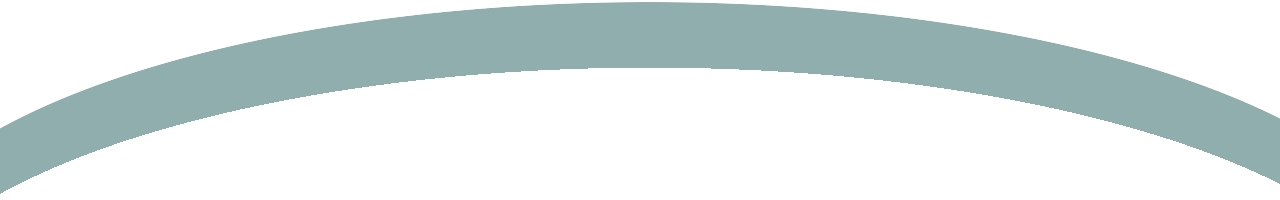
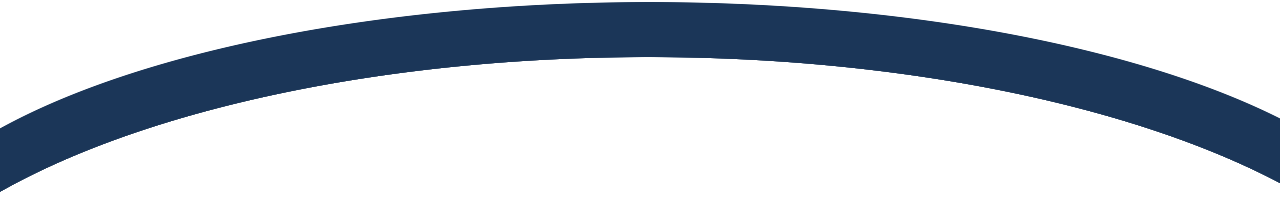
Path cleaned up, onCurrentIndexChanged instead of movmentEnded fixes the updating of the cosmic unit. Better images.

diff --git a/qml/Swiper.qml b/qml/Swiper.qml
@@ -1,39 +1,113 @@
 import QtQuick 2.0
 
 Item {
+
+    property int index: hours.currentIndex
+
     width: mainWindow.width
     height: mainWindow.height*(1/4)
 
     Image { id: bg
-        source: "../images/swipe_bg.png"
+        source: "../images/swipe_bg2.png"
+        anchors.horizontalCenter: parent.horizontalCenter
     }
 
     ListModel { id: hoursModel }
 
-    PathView { id: hours
+    Component { id: highlighter
+        Rectangle { width: 80; height: 80; color: "lightsteelblue"; opacity: .5}
+    }
 
-        anchors.fill: parent
-        model: hoursModel
-        delegate: Item {
-            width: 50; height: 30
+    Component { id: pathDelegate;
+        Item {
+            width: 90; height: 45
             Text {
+                anchors.horizontalCenter: parent.horizontalCenter
                 text: hour
-                font.pixelSize: 30
+                font.pixelSize: 25
                 color: "white"
+                rotation: PathView.itemRotationasdf
             }
-        }
-        path: Path {
-            startX: mainWindow.width/2; startY: 20
-            PathQuad { x: mainWindow.width/2; y: mainWindow.height*(1/4)+80; controlX: 1700; controlY: 150}
         }
     }
 
-    function populate_hours(num_hours){
+    PathView { id: hours
+
+        anchors.fill: parent
+        highlight: highlighter
+        preferredHighlightBegin: 0.5
+        preferredHighlightEnd: 0.5
+        model: hoursModel
+        delegate: pathDelegate
+
+        path: Path { id: path
+            startX: -700; startY: 500
+            PathAttribute { name: "itemRotation"; value: 30 }
+            PathQuad { x: mainWindow.width+760; y: 500; controlX: mainWindow.width/2; controlY: -460}
+            PathAttribute { name: "itemRotation"; value: 30 }
+        }
+
+        onCurrentIndexChanged: resetHour(currentIndex)
+    }
+
+    Text { id: today
+        text: "Today"
+        font.pixelSize: 25
+        color: "white"
+        anchors { horizontalCenter: parent.horizontalCenter; horizontalCenterOffset: -240 }
+        anchors { verticalCenter: parent.verticalCenter }
+        MouseArea {
+            anchors.fill: parent
+            onClicked: hours.currentIndex = 0;
+        }
+    }
+    Text { id: tomorrow
+        text: "Tomorrow"
+        font.pixelSize: 25
+        color: "white"
+        anchors { left: today.right; leftMargin: 160 }
+        anchors { verticalCenter: parent.verticalCenter; verticalCenterOffset: -20 }
+        MouseArea {
+            anchors.fill: parent
+            onClicked: { hours.currentIndex = hours.currentIndex + 24
+                console.log("Clicked");
+            }
+        }
+    }
+    Text { id: second_day
+        text: "2daysaway"
+        font.pixelSize: 25
+        color: "white"
+        anchors { left: tomorrow.right; leftMargin: 160 }
+        anchors { verticalCenter: parent.verticalCenter }
+        MouseArea {
+            anchors.fill: parent
+            onClicked: hours.currentIndex + 30
+        }
+    }
+
+    function populate_hours(num_hours, cur_hour){
 
         for( var i=0; i<num_hours; i++ ){
-            hoursModel.append({"hour": i})
-            console.log(i)
-
+            hoursModel.append({"hour": to_civil_time(i+cur_hour)})
         }
+    }
+
+    function to_civil_time(offset){
+
+        if(offset <= 12){
+            return offset + ":00\n am";
+        }else if(offset > 12 && offset < 24){
+            offset = offset - 12;
+            return offset + ":00\n pm";
+        }else{
+            offset = offset - 24;
+            console.log(offset)
+            return to_civil_time(offset);
+        }
+    }
+
+    function resetHour(x){
+        main_stats.setVars(x)
     }
 }

diff --git a/WeatherStatin.qml b/WeatherStatin.qml
@@ -3,10 +3,12 @@ import "qml"
 
 Rectangle {
 
-    property int metric: 0   // 0 = farenheit / 1 = celcius
-    property string bg_source: ""
-    property string current_city: ""
-    property int daytime: 0  // 0 = nighttime / 1 = Daytime
+    property int metric: 0               // 0 = farenheit / 1 = celcius
+    property string bg_source: ""        // Source image for background
+    property string current_city: ""     // contains the name of the current city
+    property int daytime: 0              // 0 = nighttime / 1 = Daytime
+    property int cur_time // Hour 1-24
+    property int cosmo_constant          // Used for positioning the sun/moon (Based off the cur_time)
 
     Component.onCompleted: init()
 
@@ -18,18 +20,7 @@ Rectangle {
         source: bg_source
     }
 
-    Rectangle { id: drag_hook // This should be an image!
-        width: parent.width*(1/5); height: mainWindow.height*(1/12)
-        anchors {top: parent.top; horizontalCenter: parent.horizontalCenter }
-        anchors.bottomMargin: drag_hook.height/2
-        color: "red"
 
-        MouseArea { id: dash_mouse_area
-            anchors.fill: parent
-            onClicked: dash.state = (dash.state==="focused")? "" : "focused";
-            enabled: (dash.state==="focused")? false: true;
-        }
-    }
 
     Text { id: city_name
         text: current_city
@@ -39,19 +30,59 @@ Rectangle {
     }
 
     // Gonna need a javascript model
-    MainStats {id: main_stats;
-        anchors.centerIn:parent
-        onCompleted: swiper.populate_hours(main_stats.num_hours)
+    MainStats { id: main_stats;
+        anchors { horizontalCenter: parent.horizontalCenter; verticalCenter: parent.verticalCenter; verticalCenterOffset: -80 }
+        onCompleted: swiper.populate_hours(main_stats.num_hours, cur_time)
+    }
+
+    Image { id: cosmic_object   // either the sun or the moon
+        source: (daytime==0)?"images/moonunit.png":"images/sun.png"
+        y: {var time = (swiper.index%12);
+            var offset = time-7;
+            if(offset==0){return mainWindow.height+500;}
+            if(offset<0){
+                offset = time + 5;
+            }
+            return ((mainWindow.height/11)*offset) - 200
+        }
+        x: mainWindow.width * (3/5)
+        transitions: Transition {
+            PropertyAnimation { properties: "x,y"; easing.type: Easing.Linear }
+        }
+    }
+
+    Image { id: drag_hook // This should be an image!
+        anchors {top: parent.top; horizontalCenter: parent.horizontalCenter }
+        anchors.bottomMargin: drag_hook.height/2
+        source: "images/dragger.png"
+
+        MouseArea { id: dash_mouse_area
+            anchors.fill: parent
+            onClicked: dash.state = (dash.state==="focused")? "" : "focused";
+            enabled: (dash.state==="focused")? false: true;
+        }
     }
 
     Swiper {id: swiper; anchors.bottom: parent.bottom; anchors.left: parent.left; }
 
-    Dashboard {id: dash; state: ""}
-
-    function init(){
-        bg_source = (daytime==1)?"images/nightsky.png":"images/blue-sky.jpg"
-        current_city = "Chicago"
-        main_stats.load("Chicago",0)
+    Text{ text: swiper.index % 12
+        anchors.top: mainWindow.top
+        font.pixelSize: 50;
+        color: "gray"
     }
 
+    Dashboard {id: dash; state: ""}
+
+
+    function init(){
+        main_stats.load("Chicago",0)  // Downloads json and sets environment variables
+        current_city = "Chicago"
+        reDraw()
+        // toggle for populated hours when not connected to api
+        // swiper.populate_hours(36, 1)
+    }
+
+    function reDraw(){
+        bg_source = (daytime==0)?"images/nightsky.png":"images/blue-sky.jpg"
+    }
 }

diff --git a/qml/MainStats.qml b/qml/MainStats.qml
@@ -10,13 +10,18 @@ Item {
     property string temp_f
     property string temp_c
     property string day
-    property string hour
+    property string hour            // Military
     property string wind_mph
     property string pressure_in
-    property string colour
+    property string colour          // Either black or white
+    property string civil           // Pretty time format
+    property string condition
 
     // Other properties
     property int num_hours
+
+    // JSON Object (needed globally to not make repeated calls to the API)
+    property var jsonObject
 
 
     Rectangle { id: shade
@@ -41,12 +46,18 @@ Item {
     }
     Text { id: weekday
         text: day
-        anchors {top: outdoor_temp.bottom; left: parent.left; leftMargin:20; }
-        font.pixelSize: 40
+        anchors {top: outdoor_temp.bottom; horizontalCenter: parent.horizontalCenter }
+        font.pixelSize: 30
+        color: colour
+    }
+    Text { id: condion_text
+        text: condition
+        anchors { top: weekday.bottom; horizontalCenter: parent.horizontalCenter; }
+        font.pixelSize: 30
         color: colour
     }
     Text { id: selected_hour
-        text: hour
+        text: civil
         anchors {top: weekday.top; left: weekday.right; leftMargin: 10; }
         font.pixelSize: 40
         color: colour
@@ -63,27 +74,35 @@ Item {
         doc.onreadystatechange = function(){
             if ( doc.readyState == XMLHttpRequest.DONE)
             {
-                var jsonObject = JSON.parse(doc.responseText);
-                loaded(jsonObject, index)
+                jsonObject = JSON.parse(doc.responseText);
+                setVars(index)
+                num_hours = jsonObject.hourly_forecast.length;
+                mainWindow.cur_time = jsonObject.hourly_forecast[0].FCTTIME.hour
+                completed();
             }
         }
         doc.send();
         console.log(path)
+
     }
 
-    function loaded(jsonObject, index){
+    // Parses the JSON and sets the variables for use in QML
+    // index: The hour to use for hourly, 0=current hour. Goes up to about 34
+    function setVars(index){
         temp_f = jsonObject.hourly_forecast[index].temp.english
         temp_c = jsonObject.hourly_forecast[index].temp.metric
         day = jsonObject.hourly_forecast[index].FCTTIME.weekday_name_abbrev
-        hour = jsonObject.hourly_forecast[index].FCTTIME.civil
+        hour = jsonObject.hourly_forecast[index].FCTTIME.hour
+        civil = jsonObject.hourly_forecast[index].FCTTIME.civil
+        condition = jsonObject.hourly_forecast[index].condition
 
-        num_hours = jsonObject.hourly_forecast.length
-        setColour(jsonObject.hourly_forecast[index].FCTTIME.hour)
+        setHour(jsonObject.hourly_forecast[index].FCTTIME.hour)
 
-        completed()
     }
 
-    function setColour(hour){
+    // Sets the hour that we are currently using
+    function setHour(hour){
+        console.log("setColor: " + hour + " | <- thats the hour in military time")
         if(hour < 7 || hour > 19) { // Night
             colour = "white"
             mainWindow.daytime = 0
@@ -91,5 +110,6 @@ Item {
             colour = "black"
             mainWindow.daytime = 1
         }
+        mainWindow.reDraw()
     }
 }

diff --git a/qml/Dashboard.qml b/qml/Dashboard.qml
@@ -16,12 +16,10 @@ Rectangle { id: dashboard
 
     SettingsBar {id: settings_bar; x: 0; y:0}
 
-    Rectangle { id: drag_hook // This should be an image!
-        width: parent.width*(1/5); height: mainWindow.height*(1/12)
+    Image { id: drag_hook // This should be an image!
         anchors {bottom: parent.bottom; horizontalCenter: parent.horizontalCenter }
-
-        color: "red"
-
+        source: "../images/dragger.png"
+        rotation: 180;
         MouseArea {
             anchors.fill: parent
             onClicked: dashboard.state = (dashboard.state==="focused")? "" : "focused";

diff --git a/qml/Dashboard/Cities.qml b/qml/Dashboard/Cities.qml
@@ -22,9 +22,9 @@ Rectangle {
         ListElement {
             name: "Chicago"
         }
-        ListElement {
+       /* ListElement {
             name: "Los_Angeles"
-        }
+        } */
     }
 
     function addCity(city){
